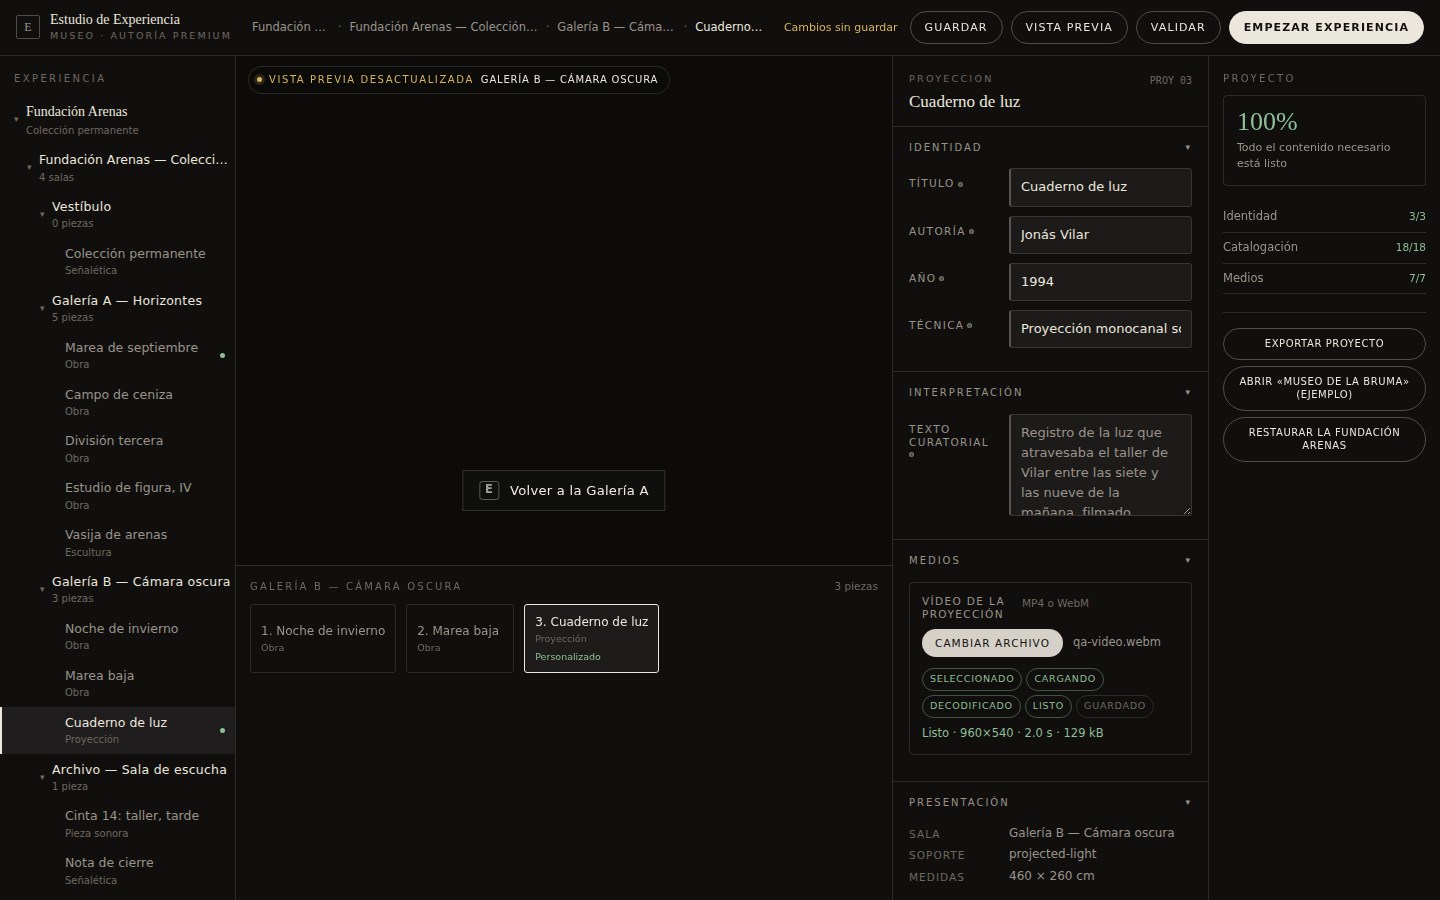
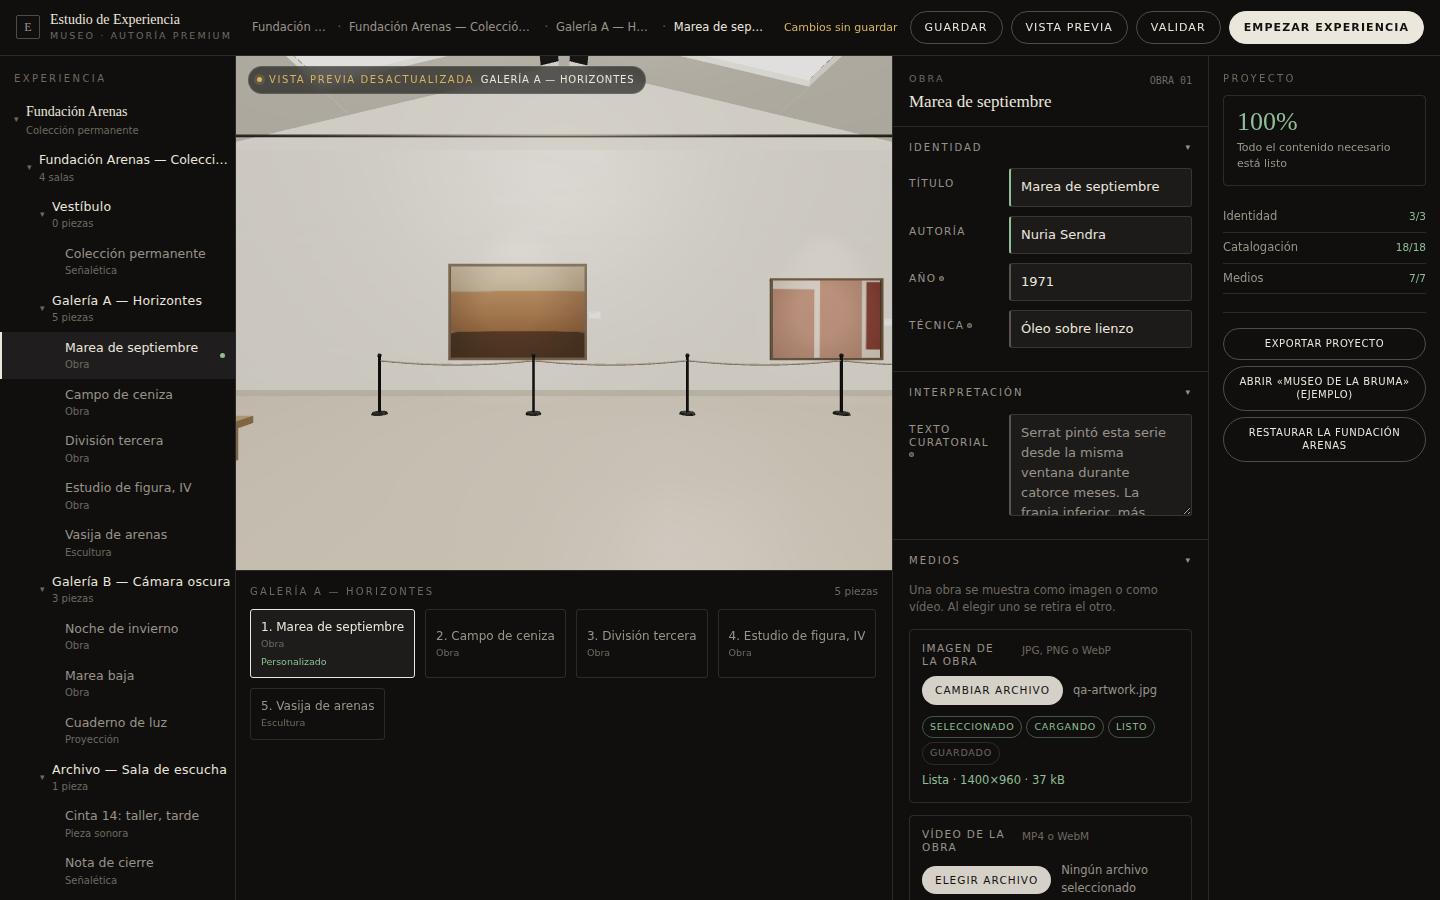
fix(museum): show the author the piece they are editing, not the room it stands in
Selecting a work walked the preview to its room and stopped there. An
author editing "División tercera" was shown Galería A from across the
floor, five pieces in it, with no way to tell which one they were editing:
the tree, the editor and the filmstrip all named the work while the one
surface that could have pointed at it showed a room. A docked live preview
whose whole promise is "see what you are changing" was answering a
different question.

The piece is now framed with the runtime's own focusEntity, so what an
author sees is what the product already does for a visitor inspecting that
work — no pose is invented here and the studio still exposes no camera
controls. Selecting a room or the institution releases the focus again,
because a room is not a subject. Revealing also no longer returns early
when the piece is already in the active room, which is the common case and
the one where the old code did nothing at all.

Also: an empty media slot claimed "se conserva el medio original de la
pieza" in both slots at once. True of the one whose medium the piece has,
a small lie under the other — a framed painting's original medium is a
photograph, so the sentence under «Vídeo de la obra» announced the
preservation of a video that never existed. Two identical sentences in
adjacent cards also read as a template nobody had finished. Each empty slot
now says what is actually true of it, and the institution's mark says what
[…]

diff --git a/labs/immersive-worlds/app/experience-app.js b/labs/immersive-worlds/app/experience-app.js
@@ -354,13 +354,32 @@ async function mountStudio({ world, activeConfig, vault, boot, runtime }) {
         ? world.startSpaceId
         : entity?.spaceId
         || ((world.spaces || []).some((s) => s.id === nodeId) ? nodeId : null);
-      if (!spaceId || spaceId === runtime.state.activeSpaceId) return;
-      const portal = (world.portals || []).find(
-        (p) => p.fromSpaceId === runtime.state.activeSpaceId && p.toSpaceId === spaceId
-      );
-      // Only a doorway the world actually has. The studio does not invent
-      // teleports, and a room two doors away simply is not revealed in one step.
-      if (portal) { try { await runtime.traversePortal(portal.id, { source: 'STUDIO' }); } catch { /* */ } }
+      if (!spaceId) return;
+      if (spaceId !== runtime.state.activeSpaceId) {
+        const portal = (world.portals || []).find(
+          (p) => p.fromSpaceId === runtime.state.activeSpaceId && p.toSpaceId === spaceId
+        );
+        // Only a doorway the world actually has. The studio does not invent
+        // teleports, and a room two doors away simply is not revealed in one step.
+        if (portal) { try { await runtime.traversePortal(portal.id, { source: 'STUDIO' }); } catch { /* */ } }
+      }
+
+      // Walking to the right room was never the whole promise. An author editing
+      // "División tercera" was shown Galería A from across the floor, with five
+      // pieces in it and no way to tell which one they were editing — the tree,
+      // the editor and the filmstrip all named the work while the one surface
+      // that could have pointed at it showed a room.
+      //
+      // So the piece itself is framed, using the runtime's own focus rather than
+      // a pose invented here: the studio still exposes no camera controls, and
+      // what an author sees is what the product already does for a visitor
+      // inspecting that work. Selecting a room or the institution releases the
+      // focus again, because a room is not a subject.
+      if (entity) {
+        try { runtime.focusEntity(nodeId, {}, { source: 'STUDIO' }); } catch { /* stays in the room */ }
+      } else {
+        try { runtime.releaseFocus(); } catch { /* nothing was focused */ }
+      }
     }
   });
 

diff --git a/labs/immersive-worlds/authoring/studio/studio-shell.js b/labs/immersive-worlds/authoring/studio/studio-shell.js
@@ -582,8 +582,31 @@ export class StudioShell {
             ${esc(d.label)}${d.detail ? ` · ${esc(d.detail)}` : ''}
           </p>
           ${bad ? `<button class="st-b st-b--small" data-retry="${slot}">Elegir otro archivo</button>` : ''}
-        ` : `<p class="st-slotstate">Se conserva el medio original de la pieza.</p>`}
+        ` : `<p class="st-slotstate">${esc(this._emptySlotNote(kind, slot))}</p>`}
       </div>`;
+  }
+
+  /**
+   * What an empty slot says about itself.
+   *
+   * Both slots used to say "se conserva el medio original de la pieza", which
+   * is true of the one whose medium the piece actually has and a small lie
+   * under the other: a framed painting's original medium is a photograph, so
+   * printing that sentence under «Vídeo de la obra» told the author a video was
+   * being preserved when none had ever existed. Two identical sentences in
+   * adjacent cards also read as a template that had not been finished.
+   */
+  _emptySlotNote(kind, slot) {
+    // The institution's mark is not a piece and has no original to preserve.
+    if (slot === MEDIA_SLOT.INSTITUTION_LOGO) {
+      return 'Sin logotipo. La cartela de entrada mostrará solo el nombre.';
+    }
+    const inherited = this.selectedEntity?.content?.media;
+    const inheritedKind = inherited?.kind === 'VIDEO' ? 'video' : inherited?.src ? 'image' : null;
+    if (inheritedKind === kind) return 'Se conserva el medio original de la pieza.';
+    return kind === 'video'
+      ? 'Sin vídeo. Añade uno para que la pieza se muestre en movimiento.'
+      : 'Sin imagen. Añade una para que la pieza se muestre como fotografía.';
   }
 
   /* == readiness column ===================================================== */
